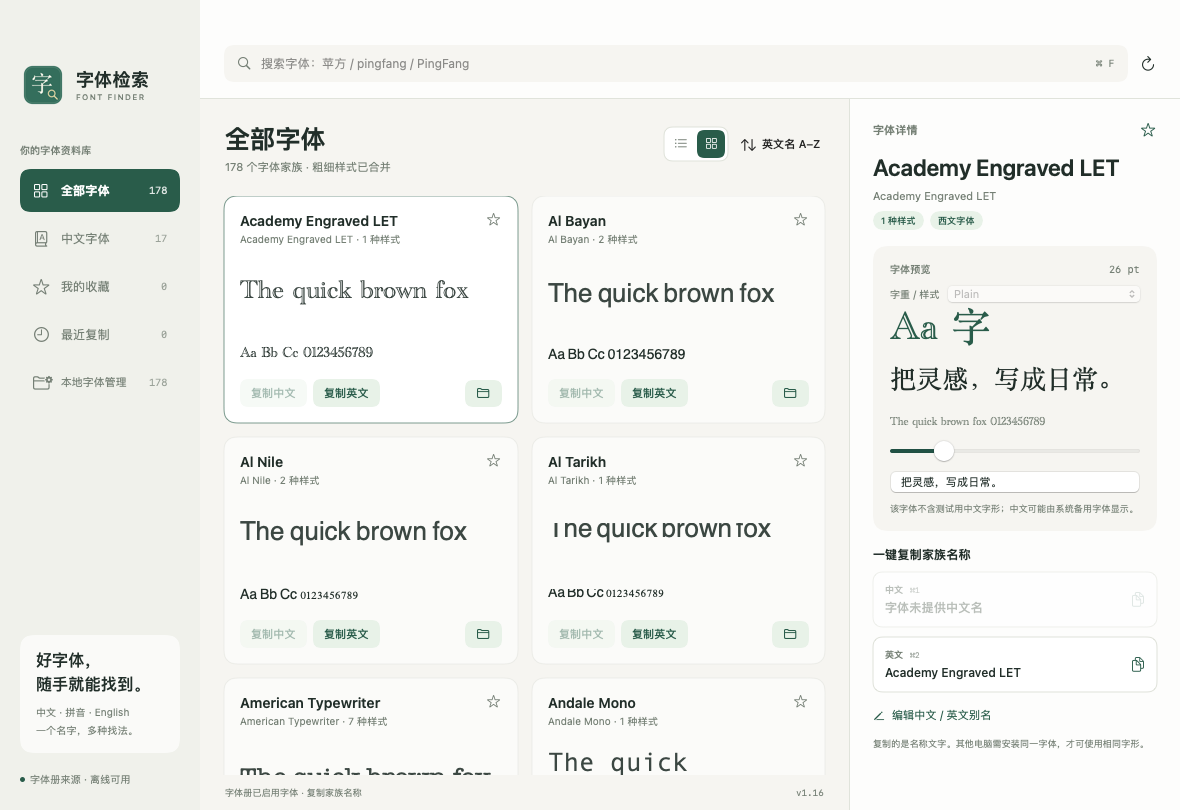
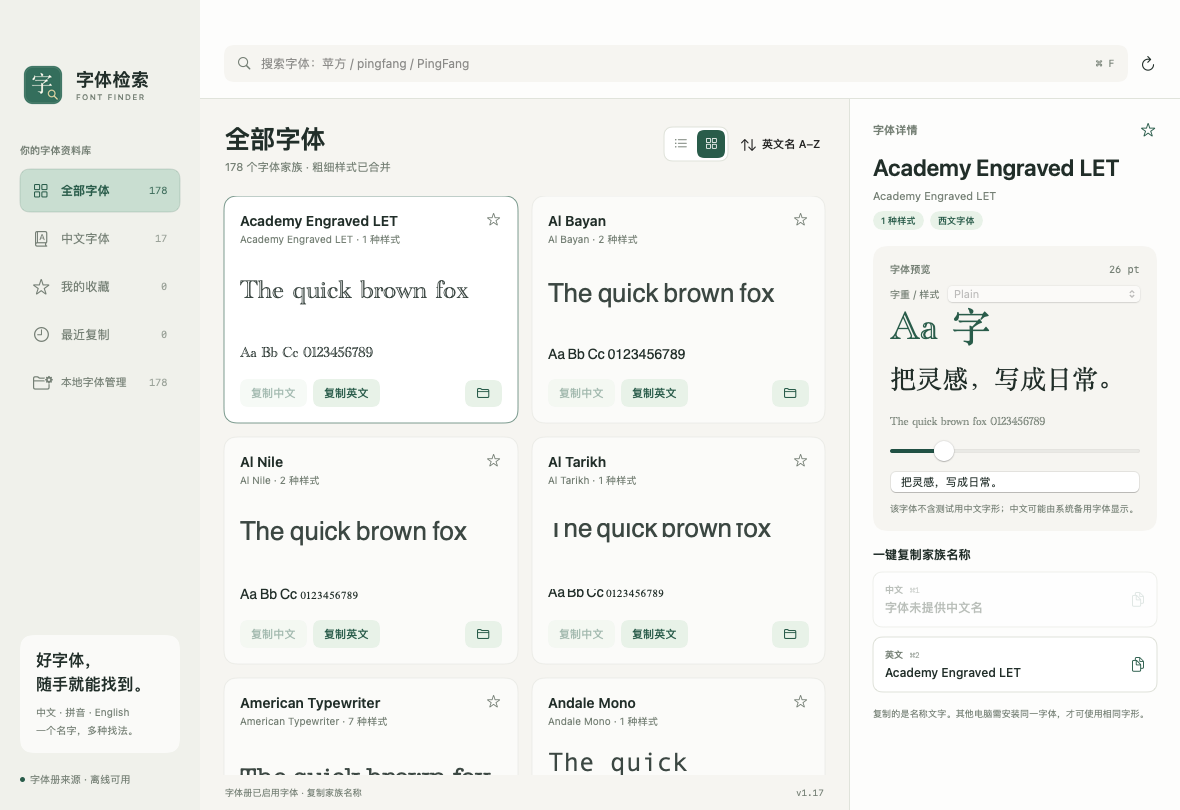
Record category restoration, window persistence, and updated layout previews

Changed region(s): [[0.7322, 0.8642, 0.9763, 0.9259], [0.0, 0.1852, 0.1525, 0.2778]]

diff --git a/documentation/v1.17-validation.md b/documentation/v1.17-validation.md
@@ -1,0 +1,16 @@
+# v1.17 分类布局与窗口记忆
+
+日期：2026-11-05；版本 1.17、构建 18。
+
+- 全部字体、中文字体、收藏、最近复制、本地字体管理共用列表/网格切换控件。五个分类分别保存显示方式；沿用旧版全部字体的偏好键，普通分类默认列表，本地管理默认网格。切换布局不修改查询、排序、当前字体或管理页多选。
+- 本地字体管理增加紧凑单列布局，保留选择框、权限保护、预览和文件位置入口；删除仍需确认，文件移到废纸篓。
+- 侧栏选中项使用柔和灰绿色底色、深绿色文字图标和淡边框。已查看普通网格与管理列表的真实截图，确认颜色与控件布局。
+- 移除别名编辑按钮、弹窗和添加别名提示。旧版已保存的名称记录保留以兼容已有数据，相关底层兼容检查仍保留。
+- 分类选择立即写入本机偏好，下次启动恢复；无效记录回退全部字体。窗口在显示前显式恢复原有 Cocoa 保存的尺寸和位置，首次使用居中。截图使用独立模型偏好，窗口不写入真实窗口尺寸。
+- [预发布构建](https://github.com/sudazz777/ZiTiJianSuo/actions/runs/41953172355) 成功，来源 `f273eaa`。本机功能 86 项、更新 46 项、字体管理 29 项、安装 31 项、焦点和窗口检查 15 项、历史 GitHub 模块 61 项全部通过。
+- 新检查验证重新初始化模型后恢复分类、无效分类回退，以及新建 AppKit 窗口实际读取保存尺寸；截图窗口保持指定尺寸、不覆盖真实窗口配置。布局切换按钮和分栏偏好未新增自动化 GUI 点击测试。
+- DMG 挂载、Finder 布局、复制到 Applications 的完整性、签名和 Universal 架构验证通过；实际运行环境为 macOS 14 Apple 芯片，未验证所有系统版本或 Intel 实机。仅向 GitHub Releases 发布；应用仍采用 ad-hoc 签名，未完成 Developer ID 签名和公证。
+
+![柔和侧栏与网格](assets/app-grid-preview.png)
+
+![本地管理列表](assets/font-management-list-preview.png)
